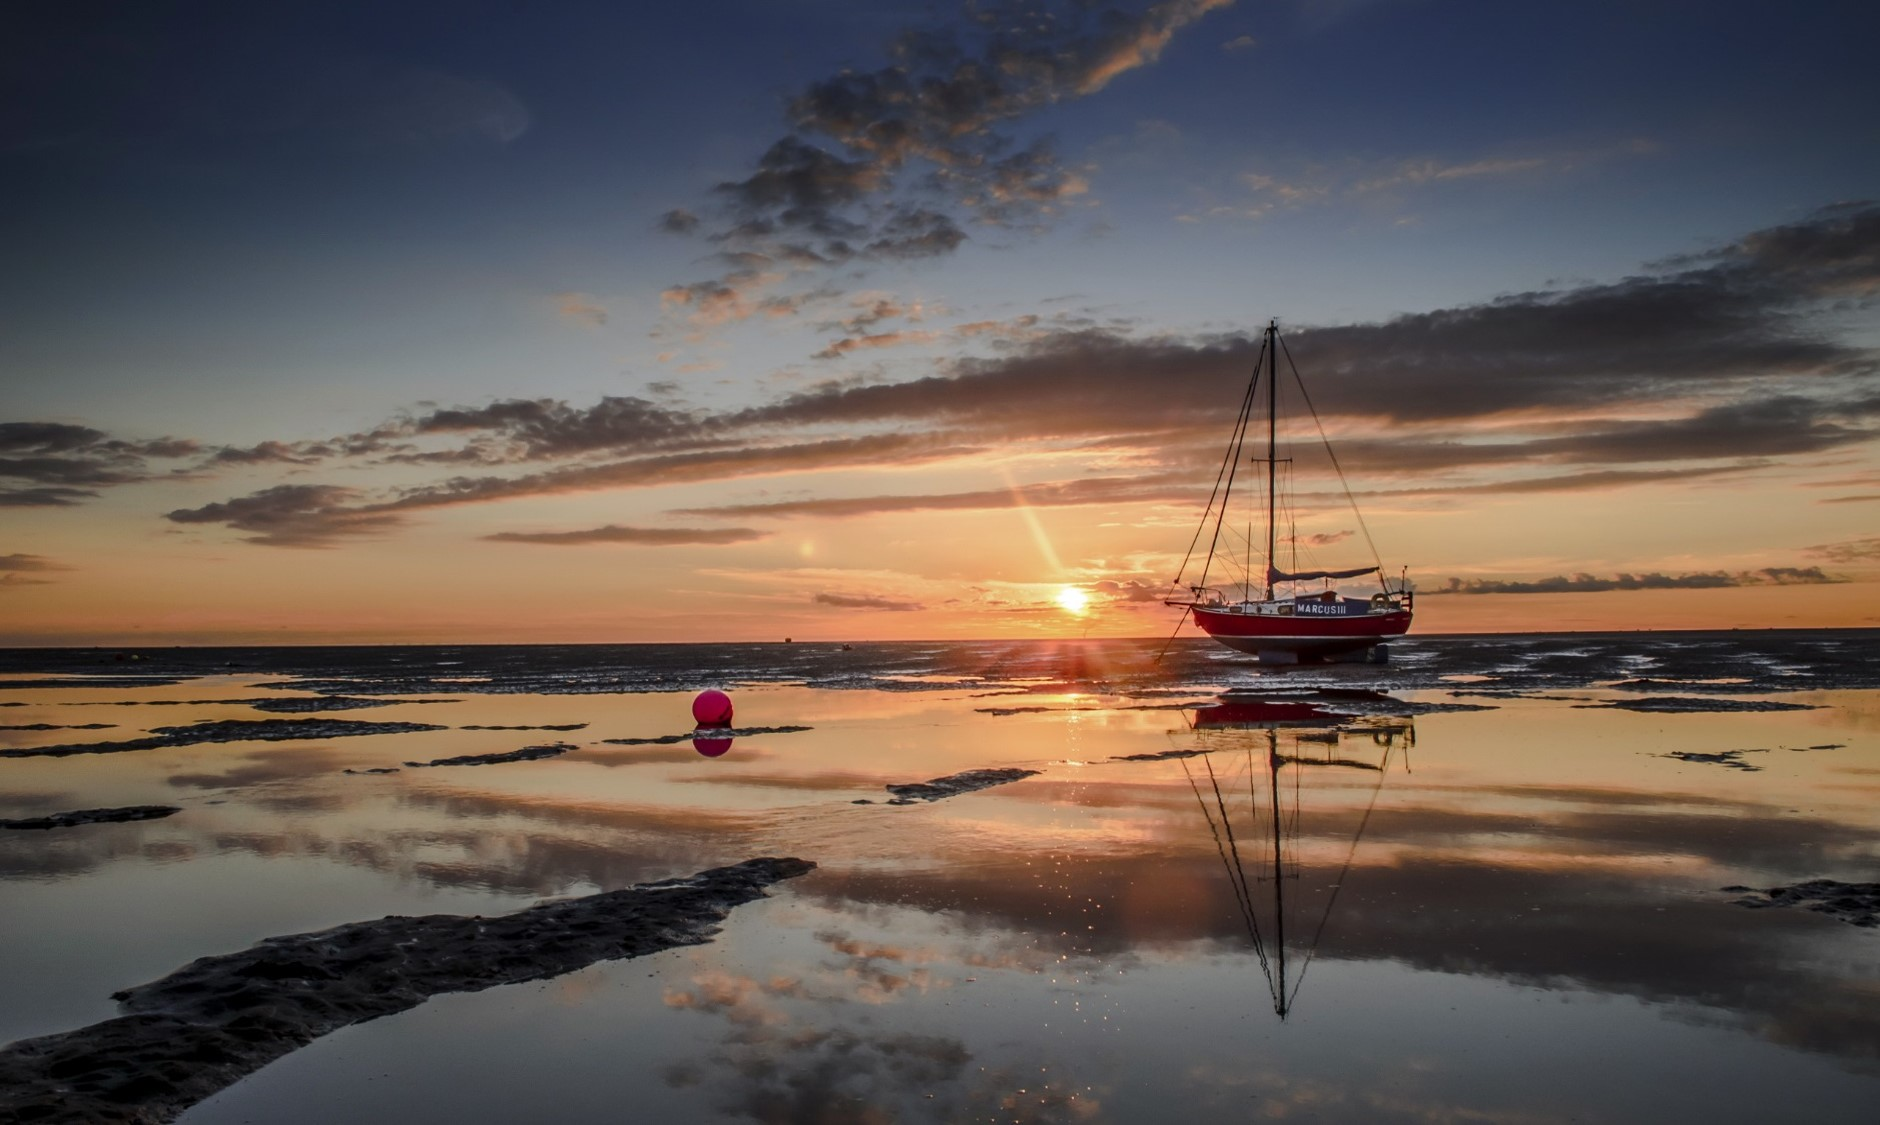
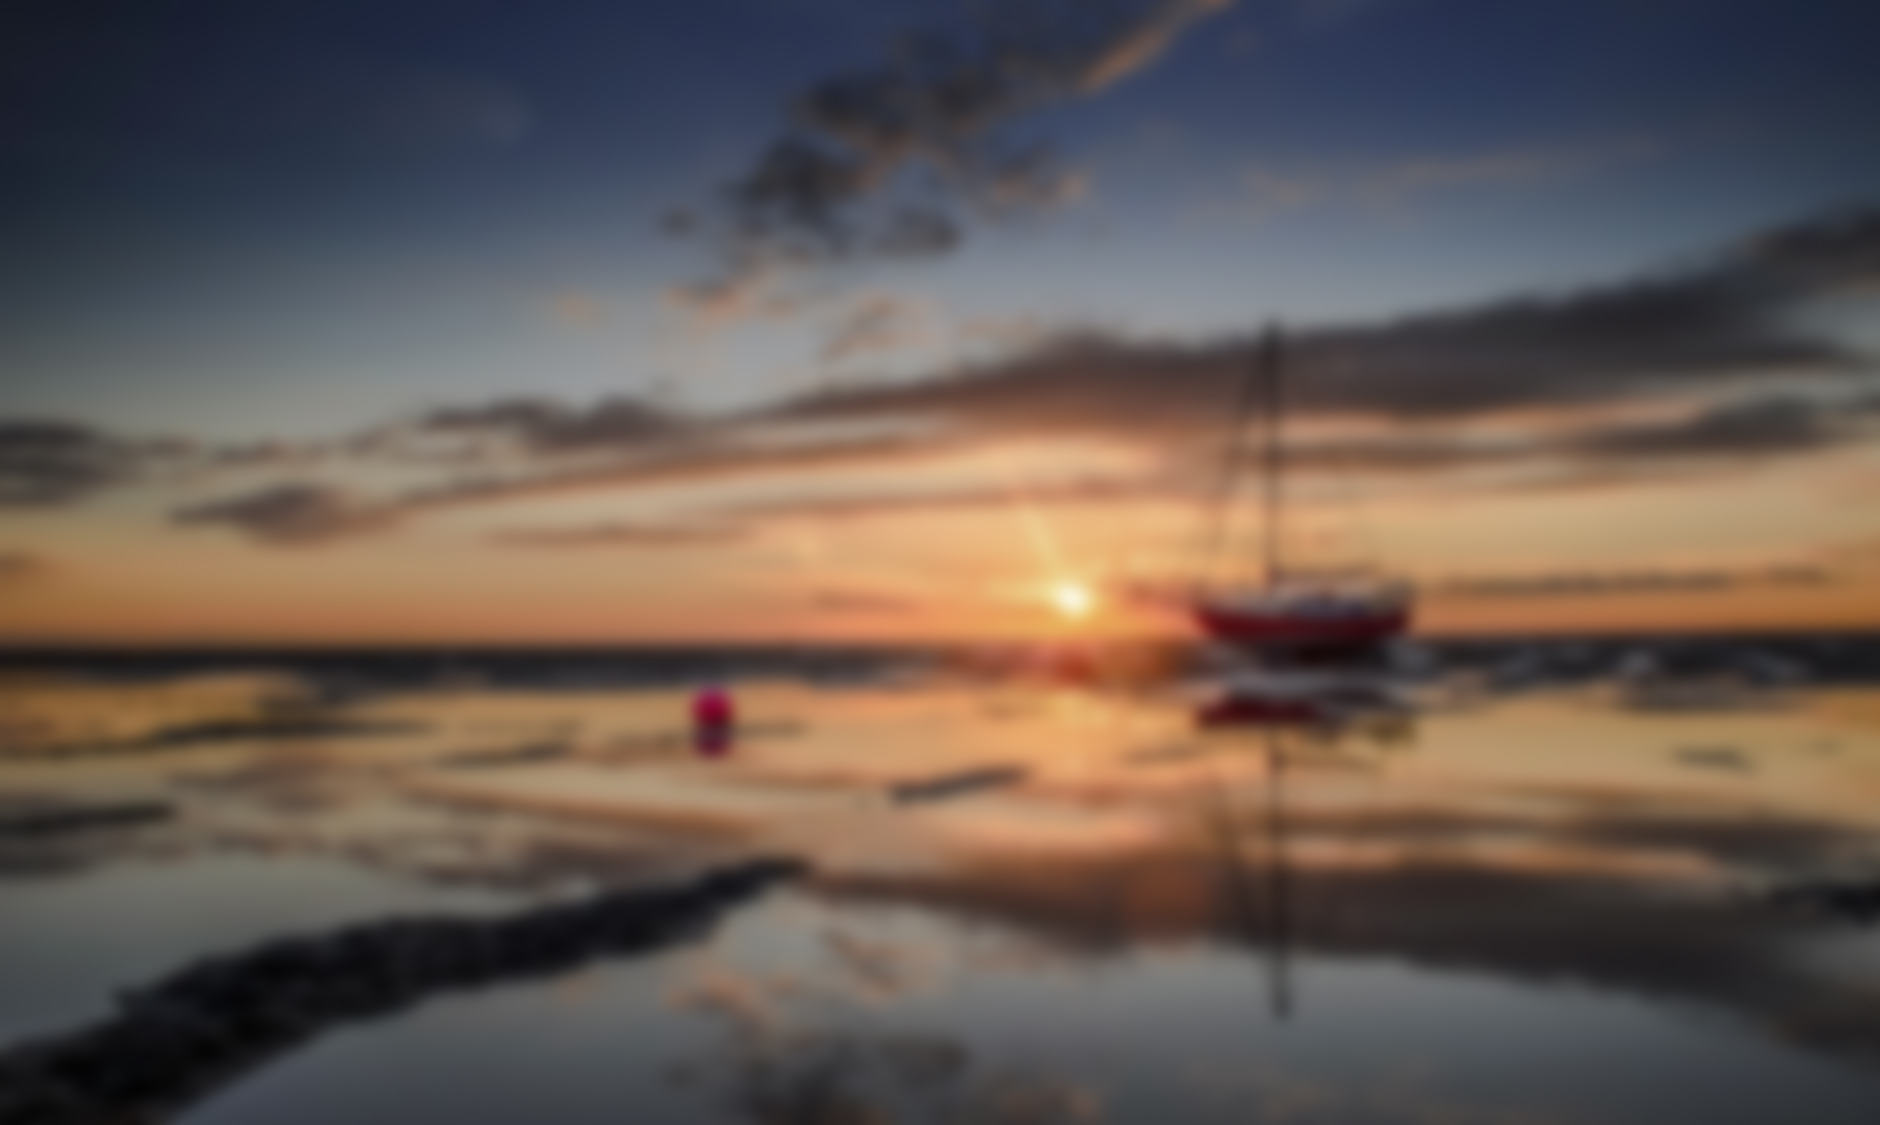
change background pictures

diff --git a/app/styles/tunet.css b/app/styles/tunet.css
@@ -225,11 +225,6 @@ body {
   position: absolute;
   width: 100%;
   height: 100%;
-  -webkit-filter: blur(10px);
-  -moz-filter: blur(10px);
-  -ms-filter: blur(10px);
-  filter: blur(10px);
-  z-index: -10000;
 }
 
 .lastpic1 {
